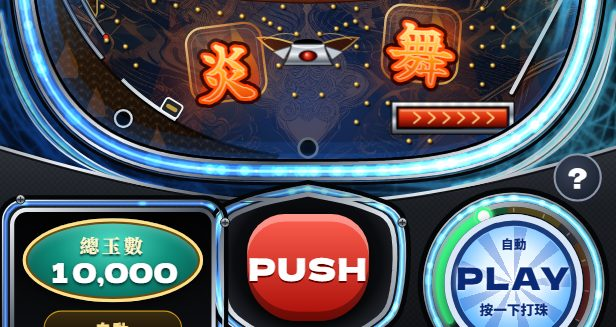
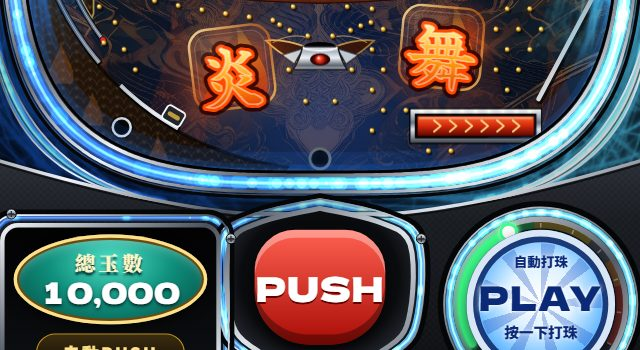
Version 42: new UI

diff --git a/index.html b/index.html
@@ -113,6 +113,25 @@
   #handle .pw { position: absolute; left: 0; right: 0; top: 22px; text-align: center; font: 900 12px/1 var(--f-body); color: #0a2a78; text-shadow: 0 0 4px #fff; }
   #knob { pointer-events: none; overflow: visible; }
   #knobHit { width: 180px; height: 180px; border-radius: 50%; touch-action: none; cursor: pointer; -webkit-tap-highlight-color: transparent; }   /* L.handle.r + 24 */
+  /* the data bar: the key numbers in one line; tapping opens the full counter and the 大當履歷 */
+  #dataBar { flex: none; display: flex; align-items: baseline; gap: 6px; margin: 6px max(8px, env(safe-area-inset-right, 0px)) 0 max(8px, env(safe-area-inset-left, 0px));
+    padding: 7px 12px; border-radius: 8px; border: 1px solid var(--line); background: #0a0b0f; color: var(--dim); font-size: 12px; text-align: left; }
+  #dataBar b { font: 16px/1 var(--f-num); color: var(--led); font-variant-numeric: tabular-nums; }
+  #dataBar i { font-style: normal; color: var(--line); margin: 0 2px; }
+  #dataBar .chev { margin-left: auto; font-style: normal; color: var(--dim); transition: transform 0.2s; }
+  #dataBar[aria-expanded="true"] .chev { transform: rotate(180deg); }
+  #dataPanel { flex: none; }
+  /* the nav bar: the five things a player opens most, one tap each */
+  #navBar { flex: none; display: grid; grid-template-columns: repeat(5, minmax(0, 1fr));
+    padding: 4px max(4px, env(safe-area-inset-right, 0px)) calc(4px + env(safe-area-inset-bottom, 0px)) max(4px, env(safe-area-inset-left, 0px));
+    background: linear-gradient(180deg, var(--metal), var(--metal-2)); border-top: 1px solid var(--line); }
+  #navBar button { border: 0; background: none; color: var(--dim); display: flex; flex-direction: column; align-items: center; gap: 3px; padding: 6px 0 4px; font: 700 12px/1.2 var(--f-body); border-radius: 10px; }
+  #navBar button:active { background: var(--metal-2); color: var(--ink); }
+  #navBar svg { width: 26px; height: 26px; fill: none; stroke: currentColor; stroke-width: 2; stroke-linecap: round; stroke-linejoin: round; }
+  #navBar button.gold { color: var(--gold); }
+  #mPowerBox.off { opacity: 0.45; }
+  #settings .seg2 { flex: none; }
+  .seg2 button { white-space: nowrap; }
   #modeBar { flex: none; display: flex; justify-content: center; align-items: center; gap: 14px; flex-wrap: wrap;
     padding: 6px max(10px, env(safe-area-inset-right, 0px)) calc(6px + env(safe-area-inset-bottom, 0px)) max(10px, env(safe-area-inset-left, 0px));
     background: linear-gradient(180deg, var(--metal), var(--metal-2)); border-top: 1px solid var(--line); }
@@ -265,8 +284,15 @@
   <header id="topbar">
     <button class="iconBtn" id="menuBtn" type="button"><i class="burger"></i></button>
     <div id="brand"><span class="crest" id="crest"></span><b id="title"></b></div>
-    <div id="coins"><span id="coinsLbl"></span><b id="coinsVal">0</b></div>
+    <div id="coins"><span data-t="ui.ballsTop"></span><b id="coinsVal">0</b></div>
   </header>
+  <button id="dataBar" type="button" aria-expanded="false" aria-controls="dataPanel">
+    <span data-t="ui.sinceHit"></span><b id="dbSince">0</b><i aria-hidden="true">·</i>
+    <span data-t="ui.todayHits"></span><b id="dbToday">0</b><i aria-hidden="true">·</i>
+    <span data-t="ui.totalSpins"></span><b id="dbTotal">0</b>
+    <em class="chev" aria-hidden="true">▾</em>
+  </button>
+  <div id="dataPanel" hidden>
   <div id="counter">
     <div><span data-t="ui.serial"></span><b id="cSerial"></b></div>
     <div><span data-t="ui.sinceHit"></span><b id="cSince">0</b></div>
@@ -276,6 +302,7 @@
   <div id="history">
     <div class="legend"><span data-t="ui.history"></span><i class="hN" data-t="ui.histNormal"></i><i class="hR" data-t="ui.histRush"></i><i class="hJ" data-t="ui.histJitan"></i></div>
     <div id="histBox"><ol id="histList"></ol><p id="histEmpty" data-t="ui.histEmpty" hidden></p></div>
+  </div>
   </div>
   <main id="stageWrap">
     <div id="stage">
@@ -292,25 +319,28 @@
           <div class="oval"><span data-t="ui.balls"></span><b id="balls">0</b></div>
           <button id="autoBtn" type="button" aria-pressed="false"></button>
         </div>
-        <button id="infoBtn" type="button">?</button>
+        <button id="infoBtn" type="button" hidden>?</button>   <!-- 說明 is in the nav bar now -->
       </div>
     </div>
     <div id="caption" role="status" aria-live="polite"><b data-t="cap.tag"></b><span></span></div>
   </main>
-  <div id="modeBar">
-    <div class="mode"><span data-t="ui.fireMode"></span><div class="seg2" id="mFire"><button type="button" data-v="auto" data-t="ui.fireAuto"></button><button type="button" data-v="manual" data-t="ui.fireManual"></button></div></div>
-    <div class="mode" id="mPowerBox"><span data-t="ui.powerMode"></span><div class="seg2" id="mPower"><button type="button" data-v="best" data-t="ui.powerBest"></button><button type="button" data-v="self" data-t="ui.powerSelf"></button></div></div>
-  </div>
+  <nav id="navBar">
+    <button type="button" data-go="mMissions"><svg viewBox="0 0 24 24" aria-hidden="true"><path d="M4 6l2 2 3-3M11 7h9M4 13l2 2 3-3M11 14h9M5 20h15"/></svg><span data-t="nav.missions"></span></button>
+    <button type="button" data-go="mRecords"><svg viewBox="0 0 24 24" aria-hidden="true"><path d="M3 20h18M6 20v-7M11 20V5M16 20v-10"/></svg><span data-t="nav.records"></span></button>
+    <button type="button" data-go="mRefill" class="gold"><svg viewBox="0 0 24 24" aria-hidden="true"><circle cx="12" cy="12" r="9"/><path d="M12 8v8M8 12h8"/></svg><span data-t="nav.refill"></span></button>
+    <button type="button" data-go="mGlossary"><svg viewBox="0 0 24 24" aria-hidden="true"><circle cx="12" cy="12" r="9"/><path d="M9.6 9.2a2.5 2.5 0 1 1 3.4 2.3c-.6.3-1 .8-1 1.5v.6M12 17v.4"/></svg><span data-t="nav.help"></span></button>
+    <button type="button" data-go="mSettings"><svg viewBox="0 0 24 24" aria-hidden="true"><circle cx="12" cy="12" r="3.2"/><path d="M12 2.5v3M12 18.5v3M2.5 12h3M18.5 12h3M5.3 5.3l2.1 2.1M16.6 16.6l2.1 2.1M5.3 18.7l2.1-2.1M16.6 7.4l2.1-2.1"/></svg><span data-t="nav.settings"></span></button>
+  </nav>
 </div>
 
 <div class="sheet" id="menu" hidden><div class="card">
   <h2 data-t="menu.title"></h2>
   <div class="list">
-    <button class="big primary" id="mRefill" type="button" data-t="menu.refill"></button>
+    <button class="big primary" id="mRefill" type="button" data-t="menu.refill" hidden></button>
     <button class="big" id="mLobby" type="button" data-t="menu.lobby"></button>
-    <button class="big" id="mMissions" type="button" data-t="menu.missions"></button>
-    <button class="big" id="mRecords" type="button" data-t="menu.records"></button>
-    <button class="big" id="mSettings" type="button" data-t="menu.settings"></button>
+    <button class="big" id="mMissions" type="button" data-t="menu.missions" hidden></button>
+    <button class="big" id="mRecords" type="button" data-t="menu.records" hidden></button>
+    <button class="big" id="mSettings" type="button" data-t="menu.settings" hidden></button>
     <button class="big" id="mGlossary" type="button" data-t="menu.glossary"></button>
     <button class="big" id="mTutorial" type="button" data-t="menu.tutorial"></button>
     <button class="big" data-close type="button" data-t="ui.close"></button>
@@ -324,6 +354,10 @@
   <div class="setRow"><div data-t="set.volume"></div><input type="range" id="sVolume" min="0" max="1" step="0.05"></div>
   <div class="setRow"><div><span data-t="set.captions"></span><small data-t="set.captionsHint"></small></div><button class="tog" id="sCaptions" type="button"></button></div>
   <div class="setRow"><div><span data-t="set.autoPush"></span><small data-t="set.autoPushHint"></small></div><button class="tog" id="sAuto" type="button"></button></div>
+  <h3 data-t="set.controls"></h3>
+  <div class="setRow"><div><span data-t="ui.fireMode"></span><small data-t="set.fireHint"></small></div><div class="seg2" id="mFire"><button type="button" data-v="auto" data-t="ui.fireAuto"></button><button type="button" data-v="manual" data-t="ui.fireManual"></button></div></div>
+  <div class="setRow" id="mPowerBox"><div><span data-t="ui.powerMode"></span><small data-t="set.powerHint"></small></div><div class="seg2" id="mPower"><button type="button" data-v="best" data-t="ui.powerBest"></button><button type="button" data-v="self" data-t="ui.powerSelf"></button></div></div>
+  <h3 data-t="set.display"></h3>
   <div class="setRow"><div><span data-t="set.saver"></span><small data-t="set.saverHint"></small></div><button class="tog" id="sSaver" type="button"></button></div>
   <div class="setRow"><div><span data-t="set.voice"></span><small data-t="set.voiceHint"></small></div><button class="tog" id="sVoice" type="button"></button></div>
   <div class="setRow"><div data-t="set.speed"></div><div class="seg" id="sSpeed">

diff --git a/src/shell.js b/src/shell.js
@@ -14,7 +14,7 @@
 
   // The version the player sees (menu, and a toast after an update): the Artifact version this is
   // published as. Bump it on every publish; the public site is built from the same files.
-  const VERSION = 41;
+  const VERSION = 42;
 
   // ---------------------------------------------------------------- storage
   // localStorage can be missing or throw (private windows, previews): the game still runs.
@@ -23,7 +23,7 @@
   const store = (k, v) => { try { localStorage.setItem(k, v); } catch (e) { /* not saved */ } };
   const parse = (s) => { try { return s ? JSON.parse(s) : null; } catch (e) { return null; } };
 
-  const set = Object.assign({ saver: false, sound: true, volume: 0.8, captions: true, speed: 1, autoPush: false, fireMode: "auto", autoAim: true, power: 0.4, voice: true, tutorialSeen: false }, parse(load(KEY_SET)));
+  const set = Object.assign({ dataOpen: false, saver: false, sound: true, volume: 0.8, captions: true, speed: 1, autoPush: false, fireMode: "auto", autoAim: true, power: 0.4, voice: true, tutorialSeen: false }, parse(load(KEY_SET)));
   const saveSettings = () => store(KEY_SET, JSON.stringify(set));
 
   // ---------------------------------------------------------------- 機率調整
@@ -54,7 +54,6 @@
     document.querySelectorAll("[data-t]").forEach((el) => { el.textContent = t(el.dataset.t); });
     $("crest").textContent = M.crest;
     $("title").textContent = M.name;
-    $("coinsLbl").textContent = t("ui.coins");
     $("cSerial").textContent = M.serial;
     $("menuBtn").setAttribute("aria-label", t("ui.menu"));
     $("infoBtn").setAttribute("aria-label", t("ui.help"));
@@ -81,7 +80,7 @@
 
   const GLOSSARY = [
     ["glg.buttons", ["gl.handle", "gl.power", "gl.push", "gl.auto", "gl.right"]],
-    ["glg.numbers", ["gl.balls", "gl.coins", "gl.serial", "gl.sinceHit", "gl.totalSpins", "gl.todayHits", "gl.history", "gl.hold", "gl.st", "gl.sub"]],
+    ["glg.numbers", ["gl.balls", "gl.serial", "gl.sinceHit", "gl.totalSpins", "gl.todayHits", "gl.history", "gl.hold", "gl.st", "gl.sub"]],
     ["glg.win", ["gl.spin", "gl.reach", "gl.jackpot", "gl.round", "gl.upgrade", "gl.boss", "gl.awaken", "gl.rush", "gl.rate", "gl.jitan"]],
     ["glg.hints", ["gl.holdColor", "gl.stepup", "gl.gun", "gl.cutin", "gl.pseudo", "gl.battle", "gl.hot", "gl.kokuchi", "gl.revive", "gl.zone", "gl.reachVar", "gl.zen", "gl.stLast"]],
   ];
@@ -160,10 +159,14 @@
     at("panel", Q.x + (Q.w - 176) / 2, Q.y + 8);
     at("infoBtn", I.x, I.y);
   }
+  // The stage fills the height when the phone is tall enough: its outer frame may run off the sides
+  // by up to SIDE_CROP of its width (2% a side: the 總玉數 panel starts 12 units in), so a narrow
+  // phone shows the machine a little bigger instead of leaving a band of empty space under it.
+  const SIDE_CROP = 0.04;
   function fit() {
     const wrap = $("stageWrap"), w = wrap.clientWidth, h = wrap.clientHeight;
-    const s = Math.min(w / L.stage.w, h / L.stage.h);
-    const x = (w - L.stage.w * s) / 2, y = (h - L.stage.h * s) * 0.2;
+    const s = Math.min(h / L.stage.h, w / (L.stage.w * (1 - SIDE_CROP)));
+    const x = (w - L.stage.w * s) / 2, y = Math.max(0, (h - L.stage.h * s) * 0.5);
     $("stage").style.transform = "translate(" + x.toFixed(1) + "px," + y.toFixed(1) + "px) scale(" + s.toFixed(4) + ")";
   }
 
@@ -430,13 +433,13 @@
     // ---- display
     function showChips(chips) {
       $("balls").textContent = fmt(chips);
-      $("coinsVal").textContent = fmt(chips * 100);
+      $("coinsVal").textContent = fmt(chips);
     }
     function showCounter() {
       const st = eng.state.stats;
-      $("cSince").textContent = fmt(st.spinsSinceHit);
-      $("cTotal").textContent = fmt(st.totalSpins);
-      $("cToday").textContent = fmt(day.hits);
+      $("cSince").textContent = $("dbSince").textContent = fmt(st.spinsSinceHit);
+      $("cTotal").textContent = $("dbTotal").textContent = fmt(st.totalSpins);
+      $("cToday").textContent = $("dbToday").textContent = fmt(day.hits);
       // 大當履歷: one bar per hit, newest on the right; height = spins it took (capped), colour = mode
       const last = st.history.slice(-10), list = $("histList");
       $("histEmpty").hidden = last.length > 0;   // say what the empty graph is for
@@ -823,6 +826,12 @@
     $("mGlossary").addEventListener("click", () => openSheet("glossary"));
     $("mTutorial").addEventListener("click", () => openTutorial());
     $("mRecords").addEventListener("click", () => { showRecords(); openSheet("records"); drawSlump(); });
+    // the nav bar opens what the (shorter) menu used to
+    document.querySelectorAll("#navBar [data-go]").forEach((b) => b.addEventListener("click", () => $(b.dataset.go).click()));
+    // the data bar folds the full counter and the 大當履歷 away; the machine gets the room
+    const showData = () => { $("dataPanel").hidden = !set.dataOpen; $("dataBar").setAttribute("aria-expanded", String(!!set.dataOpen)); fit(); };
+    $("dataBar").addEventListener("click", () => { set.dataOpen = !set.dataOpen; saveSettings(); snd("button"); showData(); });
+    showData();
     gameStats = () => eng.state;
     $("mMissions").addEventListener("click", () => { showMissions(); openSheet("missions"); });
     $("mLobby").addEventListener("click", () => { showLobby(); openSheet("lobby"); });

diff --git a/src/text.js b/src/text.js
@@ -84,7 +84,7 @@
     // ---- shell: top bar, data counter, controls
     "ui.menu": "選單",
     "ui.help": "名詞說明",
-    "ui.coins": "金幣",
+    "ui.ballsTop": "珠子",
     "ui.serial": "台號",
     "ui.sinceHit": "未回轉",
     "ui.totalSpins": "總轉",
@@ -95,13 +95,13 @@
     "ui.histJitan": "時短",
     "ui.histEmpty": "中了大當後，這裡會記錄最近 10 次",
     "ui.balls": "總玉數",
-    "ui.auto": "自動",
-    "ui.autoOn": "自動 ON",
+    "ui.auto": "自動PUSH",
+    "ui.autoOn": "自動PUSH 開",
     "ui.autoOnHint": "自動 ON：出現 PUSH 時會自動幫你按",
     "ui.autoOffHint": "自動 OFF：出現 PUSH 時要自己按中間的大按鈕",
     "ui.play": "PLAY",
     "ui.stopBig": "STOP",
-    "ui.powerAuto": "自動",
+    "ui.powerAuto": "自動打珠",
     "ui.zWeak": "太弱",
     "ui.zLeft": "左打",
     "ui.zLeftBest": "左打 最佳",
@@ -135,6 +135,15 @@
     "menu.tutorial": "新手教學",
     "menu.records": "我的紀錄",
     "menu.missions": "每日任務・等級",
+    "nav.missions": "任務",
+    "nav.records": "紀錄",
+    "nav.refill": "補珠",
+    "nav.help": "說明",
+    "nav.settings": "設定",
+    "set.controls": "操作",
+    "set.display": "其他",
+    "set.fireHint": "自動：點一下開始，再點一下停。手動：按住才打。",
+    "set.powerHint": "最佳：自動用最好的力道。自己調：手指按在大圓鈕外圈決定。",
     "menu.lobby": "選擇機台",
     "lobby.title": "選擇機台",
     "lobby.playing": "遊玩中",
@@ -276,7 +285,7 @@
     "tut.p4": "左右兩個數字一樣，叫 **リーチ**（聽牌）。\n中間也一樣就中！",
     "tut.p5t": "三個一樣＝大當！",
     "tut.p5": "珠子會 **大量增加**。\n看到 **PUSH** 就按中間的紅色大按鈕。",
-    "tut.tip": "看不懂的字，隨時按右下的 ? 查說明。",
+    "tut.tip": "看不懂的字，隨時按下方的「說明」查。",
     "tut.prev": "上一頁",
     "tut.next": "下一頁",
     "tut.go": "開始玩",
@@ -299,10 +308,10 @@
     "glg.numbers": "畫面上的數字",
     "glg.win": "中獎的流程",
     "glg.hints": "演出：看到就比較有機會",
-    "gl.handle": "PLAY / STOP（右下大圓鈕）|「打珠：自動」時，點一下開始打珠，按鈕變成 STOP，再點一下停止。「打珠：手動」時，要按住大圓鈕才會打珠，放開就停，點一下只打一顆。",
-    "gl.power": "力道（外圈彩色刻度）|大圓鈕外圈的彩色刻度就是力道，越往右越用力，小白點是現在的力道。「力道：最佳」會自動用最好的力道。「力道：自己調」時，手指按在刻度上就用那個位置的力道打珠，按住滑動可以一邊打一邊調，就像真的握把。平常按綠色區打中間的入賞口，RUSH 和大當按最右邊紅色的「右打」區；力道不對，珠子會浪費。自己調只在「打珠：手動」時可以用。",
+    "gl.handle": "PLAY / STOP（右下大圓鈕）|打珠方式在「設定 → 操作」切換。「打珠：自動」時，點一下開始打珠，按鈕變成 STOP，再點一下停止。「打珠：手動」時，要按住大圓鈕才會打珠，放開就停，點一下只打一顆。",
+    "gl.power": "力道（外圈彩色刻度）|在「設定 → 操作」選「最佳」或「自己調」。大圓鈕外圈的彩色刻度就是力道，越往右越用力，小白點是現在的力道。「力道：最佳」會自動用最好的力道。「力道：自己調」時，手指按在刻度上就用那個位置的力道打珠，按住滑動可以一邊打一邊調，就像真的握把。平常按綠色區打中間的入賞口，RUSH 和大當按最右邊紅色的「右打」區；力道不對，珠子會浪費。自己調只在「打珠：手動」時可以用。",
     "gl.push": "PUSH（中間）|紅色大按鈕。畫面出現 PUSH 時按它揭曉結果；對決時要一直連打。",
-    "gl.auto": "自動（左下）|打開後會顯示「自動 ON」，出現 PUSH 時會自動幫你按。",
+    "gl.auto": "自動PUSH（左下）|打開後會顯示「自動PUSH 開」，出現 PUSH 時會自動幫你按。",
     "gl.right": "右打ち→（右打）|往右邊打珠。大當和 RUSH 時要右打。「打珠：自動」或「力道：最佳」會自動切換；自己調時要按外圈最右邊的紅色區。",
     "gl.balls": "總玉數（左下）|你現在有的珠子。每打出一顆用掉 1 顆，大當時會大量增加。",
     "gl.coins": "金幣（右上）|總玉數 × 100，只是另一種顯示方式。",
